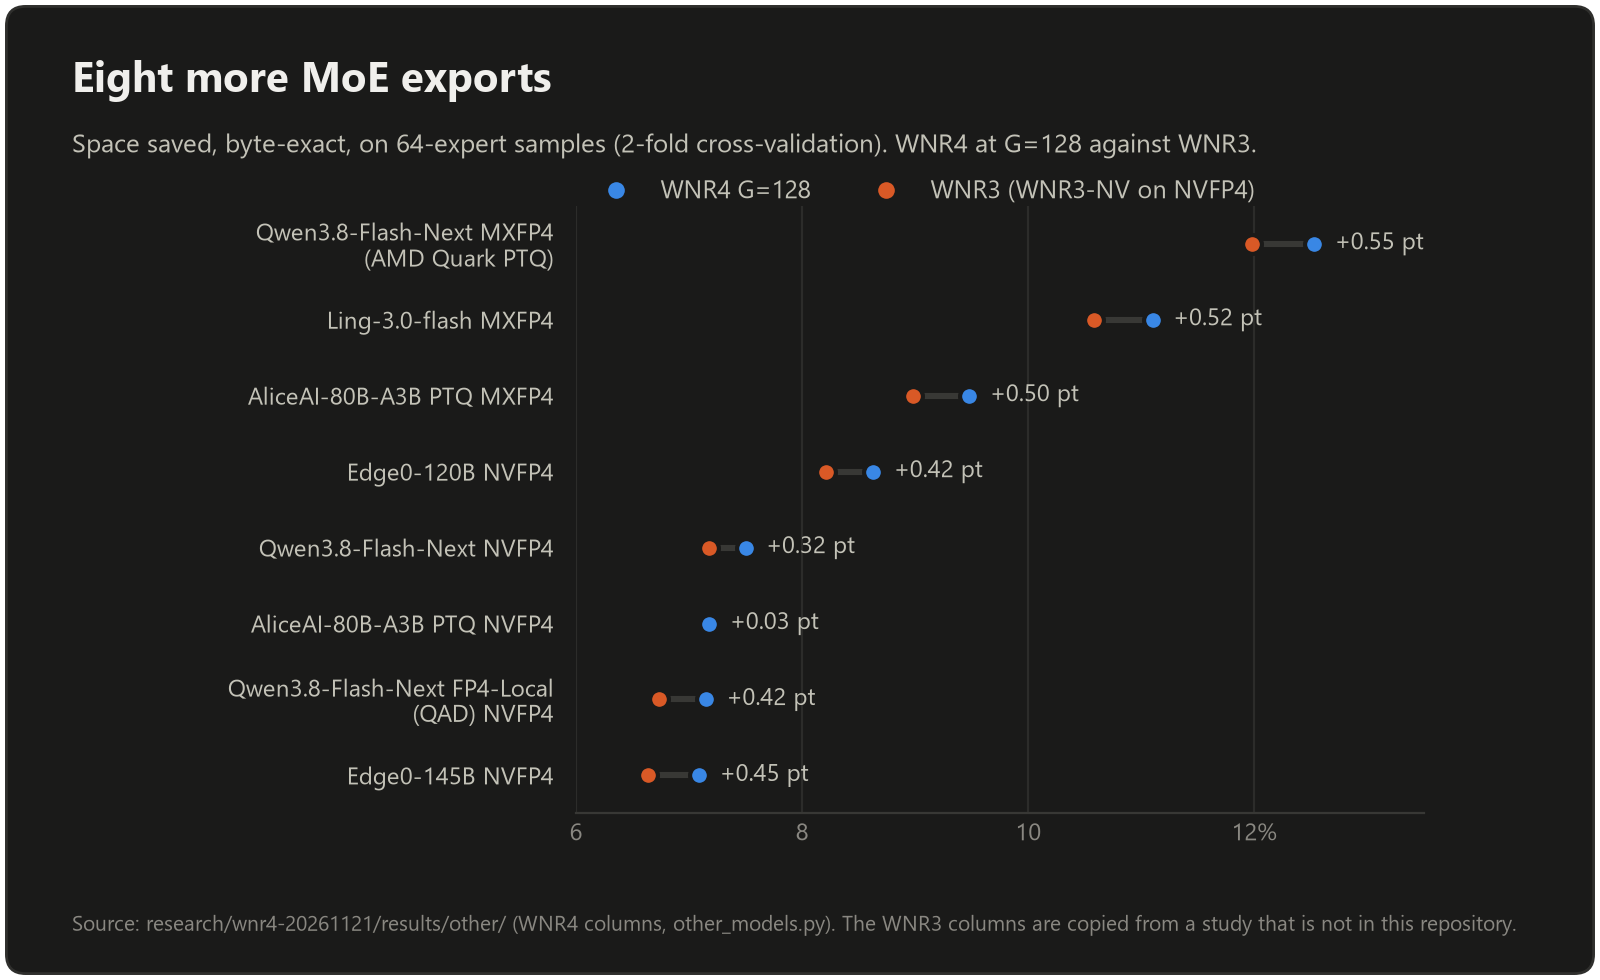
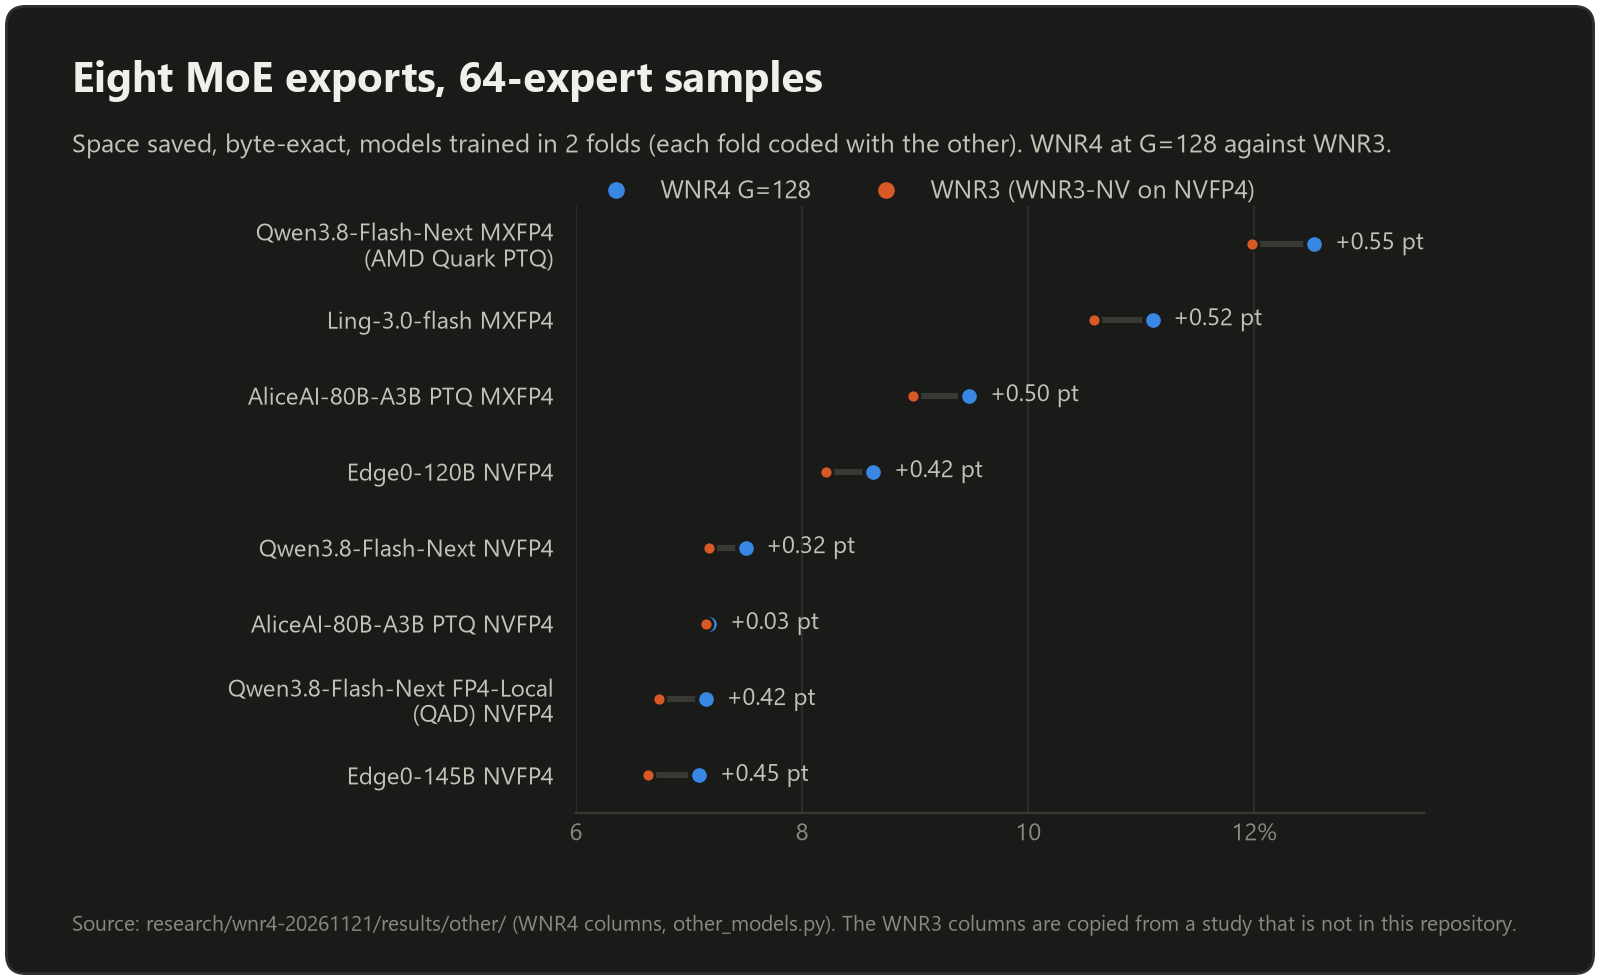
research(wnr4): chart labels after review (batch size, canonical zero on V4.1, title)

Changed region(s): [[0.2188, 0.1224, 0.875, 0.1531], [0.0938, 0.0612, 0.5312, 0.1224]]

diff --git a/research/wnr4-20261121/charts.py b/research/wnr4-20261121/charts.py
@@ -30,7 +30,7 @@ def chart_ratio(t):
     fig = cs.figure(t, h)
     cs.header(fig, t, 'WNR4 stores experts in fewer bytes',
               'Space saved on the records of the speed packs (1 - stored/raw, higher is better), every record '
-              'decoded back\nand compared. The WNR3 bar of the NVFP4 pack is WNR3-NV.', h)
+              'decoded back\nand compared. NVFP4: byte-exact, WNR3 is WNR3-NV. V4.1: canonical zero (-0 stored as +0), as in production.', h)
     x0, w, gap = 0.14, 0.25, 0.03
     for k, (name, title) in enumerate(PACKS):
         wnr4, wnr3 = pack_ratios(name)
@@ -56,8 +56,9 @@ def chart_gpu(t):
     v41 = {'WNR4 G=128': [25.6, 146, 187, 187], 'WNR3 kernels': [30.6, 90, 103, 105]}
     h = 4.3
     fig = cs.figure(t, h)
-    cs.header(fig, t, 'GPU decode: one launch per batch',
-              'Decoded GB/s by records per launch, RTX 5090, kernel time, records in VRAM, both codecs in one run.', h)
+    cs.header(fig, t, 'GPU decode by batch size',
+              'Decoded GB/s, RTX 5090, kernel time, records in VRAM, both codecs in one run. WNR4: one launch per '
+              'batch;\nWNR3: two kernels per record on 8 streams.', h)
     colors = {'WNR4 G=128': t['blue'], 'WNR3 kernels': t['orange']}
     for k, (title, data, bs) in enumerate((('Qwen3.8 MXFP4 (2.6 MB records)', q38, batches),
                                            ('DeepSeek V4.1 MXFP4 (18.8 MB records)', v41, batches[:4]))):
@@ -76,7 +77,7 @@ def chart_gpu(t):
                     markeredgecolor=t['surface'], markeredgewidth=1.5, solid_capstyle='round')
             ax.text(bs[-1] * 1.12, ys[-1], f'{ys[-1]:.0f}', va='center', ha='left', fontsize=9, fontweight='bold',
                     color=t['ink'])
-        ax.set_xlabel('records per launch', fontsize=8.5, color=t['muted'], labelpad=4)
+        ax.set_xlabel('records per batch', fontsize=8.5, color=t['muted'], labelpad=4)
         if k == 0:
             ax.set_ylabel('GB/s', fontsize=8.5, color=t['muted'])
     handles = [cs.plt.Line2D([], [], color=colors[n], linewidth=2, marker='o', markersize=5.5,
@@ -86,7 +87,7 @@ def chart_gpu(t):
     for txt in leg.get_texts():
         txt.set_color(t['ink2'])
     cs.footer(fig, t, 'Source: docs/reports/wnr4-research-20261121.md section 5 (results/bench9-*.log), median of 5 '
-              'launches per point.\nFrom page-locked host memory, upload included, WNR4 reaches 49-54 GB/s on '
+              'runs per point.\nFrom page-locked host memory, upload included, WNR4 reaches 49-54 GB/s on '
               'Qwen3.8: the PCIe 5 upload is the limit there, not the decoder.', h)
     return fig
 
@@ -100,8 +101,8 @@ def chart_models(t):
     rows.sort(key=lambda r: r[1])
     h = 4.9
     fig = cs.figure(t, h)
-    cs.header(fig, t, 'Eight more MoE exports', 'Space saved, byte-exact, on 64-expert samples (2-fold '
-              'cross-validation). WNR4 at G=128 against WNR3.', h)
+    cs.header(fig, t, 'Eight MoE exports, 64-expert samples', 'Space saved, byte-exact, models trained in 2 folds ('
+              'each fold coded with the other). WNR4 at G=128 against WNR3.', h)
     ax = cs.axes(fig, t, [0.36, 0.17, 0.53, 0.62])
     n = len(rows)
     ax.set_ylim(n - 0.5, -0.5)
@@ -113,8 +114,8 @@ def chart_models(t):
     for i, (_, wnr3, wnr4) in enumerate(rows):
         a, b = 100 * (1 - wnr3), 100 * (1 - wnr4)
         ax.plot([a, b], [i, i], color=t['base'], linewidth=2.2, zorder=2, solid_capstyle='round')
-        ax.scatter([a], [i], s=46, color=t['orange'], zorder=3, edgecolors=t['surface'], linewidths=1.5)
-        ax.scatter([b], [i], s=46, color=t['blue'], zorder=4, edgecolors=t['surface'], linewidths=1.5)
+        ax.scatter([b], [i], s=46, color=t['blue'], zorder=3, edgecolors=t['surface'], linewidths=1.5)
+        ax.scatter([a], [i], s=22, color=t['orange'], zorder=4, edgecolors=t['surface'], linewidths=1.0)
         ax.text(max(a, b) + 0.18, i, f'{b - a:+.2f} pt', va='center', ha='left', fontsize=8.5, color=t['ink2'])
     handles = [cs.plt.Line2D([], [], color=c, linestyle='none', marker='o', markersize=7, markeredgecolor=t['surface'])
                for c in (t['blue'], t['orange'])]

diff --git a/docs/reports/wnr4-research-20261121.md b/docs/reports/wnr4-research-20261121.md
@@ -5,7 +5,7 @@
 **Question.** Can a successor of WNR3 store MXFP4/NVFP4 routed experts in fewer bytes than WNR3 **and** decode on the GPU fast enough (target >= 40 GB/s of decoded slab on the RTX 5090, batched, straight into VRAM) for compressed experts to beat re-reading RAW records from NVMe?
 
 **Answer in short.**
-- Ratio: yes, by 0.3-0.6 points of raw on every container measured, on 2048 held-out records each, all byte-exact: Qwen3.8 MXFP4 **0.8753 vs WNR3 0.8809**, Qwen3.8 NVFP4 byte-exact **0.9238 vs WNR3-NV 0.9271**, DeepSeek V4.1 MXFP4 **0.8488 vs WNR3 0.8539** (G = 128; G = 256 a further -0.03 to -0.04).
+- Ratio: yes, by 0.3-0.6 points of raw on every container measured, on 2048 held-out records each, every record decoded back and compared (Qwen3.8 byte-exact, V4.1 in the canonical-zero domain of its production records): Qwen3.8 MXFP4 **0.8753 vs WNR3 0.8809**, Qwen3.8 NVFP4 byte-exact **0.9238 vs WNR3-NV 0.9271**, DeepSeek V4.1 MXFP4 **0.8488 vs WNR3 0.8539** (G = 128; G = 256 a further -0.03 to -0.04).
 - Where the gain comes from: framing (lengths, per-stream flush and hash) is gone, the last 4 nibbles of every lane ride in its initial state, NVFP4 scales are coded against the row above, and a position bucket for the last 4 nibbles of a block. The weight model itself is at its floor: no context tried (per-layer tables, column profiles shared across experts, block-maximum-first, finer scale classes, more training data) gains more than 0.02% held out.
 - Speed: yes. The CUDA decoder (one warp per tile, 32 rANS lanes sharing a 16-bit word stream, one launch per batch, output straight into the destination slots) decodes **up to 206 GB/s** of slab on the RTX 5090 (Qwen3.8 MXFP4, kernel only), 140 GB/s on NVFP4 and 188 GB/s on V4.1, against 90 GB/s for WNR3's kernels on the same records and no GPU decoder at all for WNR3-NV. From page-locked host memory, upload included, it reaches 49-54 GB/s, which is the PCIe 5 upload rate: decode is no longer the bottleneck. The >= 40 GB/s target holds from a batch of 8 records (G = 32) or 16-32 records (G = 128).
 - Trade-off: G (cells per lane per tile) sets ratio vs latency; G = 32 gives 0.19 ms per lone Qwen3.8 record and 104-204 GB/s at batch 8-32 for +0.2 points of ratio (still 0.4 below WNR3).
@@ -17,7 +17,7 @@
 
 <picture>
   <source media="(prefers-color-scheme: dark)" srcset="../../research/wnr4-20261121/charts/wnr4-gpu-dark.png">
-  <img alt="Line charts: GPU decode GB/s by records per launch on an RTX 5090. Qwen3.8 MXFP4 at 128 records: WNR4 209, WNR3 kernels 91. DeepSeek V4.1 at 32 records: WNR4 187, WNR3 kernels 105." src="../../research/wnr4-20261121/charts/wnr4-gpu-light.png" width="800">
+  <img alt="Line charts: GPU decode GB/s by records per batch on an RTX 5090 (WNR4 one launch per batch, WNR3 two kernels per record). Qwen3.8 MXFP4 at 128 records: WNR4 209, WNR3 kernels 91. DeepSeek V4.1 at 32 records: WNR4 187, WNR3 kernels 105." src="../../research/wnr4-20261121/charts/wnr4-gpu-light.png" width="800">
 </picture>
 
 <picture>

diff --git a/research/wnr4-20261121/README.md b/research/wnr4-20261121/README.md
@@ -16,7 +16,7 @@ Can a successor of WNR3 store MXFP4 and NVFP4 routed experts in fewer bytes than
 
 ## Results
 
-Stored / raw (records padded to 4096 B), 2048 held-out records each, all byte-exact; kernel GB/s of decoded slab (best batch); from `results/measure-*.json` and `results/bench8-*.log`, `results/bench9-*.log`.
+Stored / raw (records padded to 4096 B), 2048 held-out records each, every record decoded back and compared (Qwen3.8 byte-exact, V4.1 in the canonical-zero domain of its production records); kernel GB/s of decoded slab (best batch); from `results/measure-*.json` and `results/bench8-*.log`, `results/bench9-*.log`.
 
 | container | WNR3 (same training records) | WNR4 G = 128 | WNR4 GPU kernel | WNR3 GPU kernels, same run |
 |---|---:|---:|---:|---:|
@@ -31,7 +31,7 @@ Stored / raw (records padded to 4096 B), 2048 held-out records each, all byte-ex
 
 <picture>
   <source media="(prefers-color-scheme: dark)" srcset="charts/wnr4-gpu-dark.png">
-  <img alt="Line charts: GPU decode GB/s by records per launch on an RTX 5090. Qwen3.8 MXFP4 at 128 records: WNR4 209, WNR3 kernels 91. DeepSeek V4.1 at 32 records: WNR4 187, WNR3 kernels 105." src="charts/wnr4-gpu-light.png" width="800">
+  <img alt="Line charts: GPU decode GB/s by records per batch on an RTX 5090 (WNR4 one launch per batch, WNR3 two kernels per record). Qwen3.8 MXFP4 at 128 records: WNR4 209, WNR3 kernels 91. DeepSeek V4.1 at 32 records: WNR4 187, WNR3 kernels 105." src="charts/wnr4-gpu-light.png" width="800">
 </picture>
 
 <picture>
